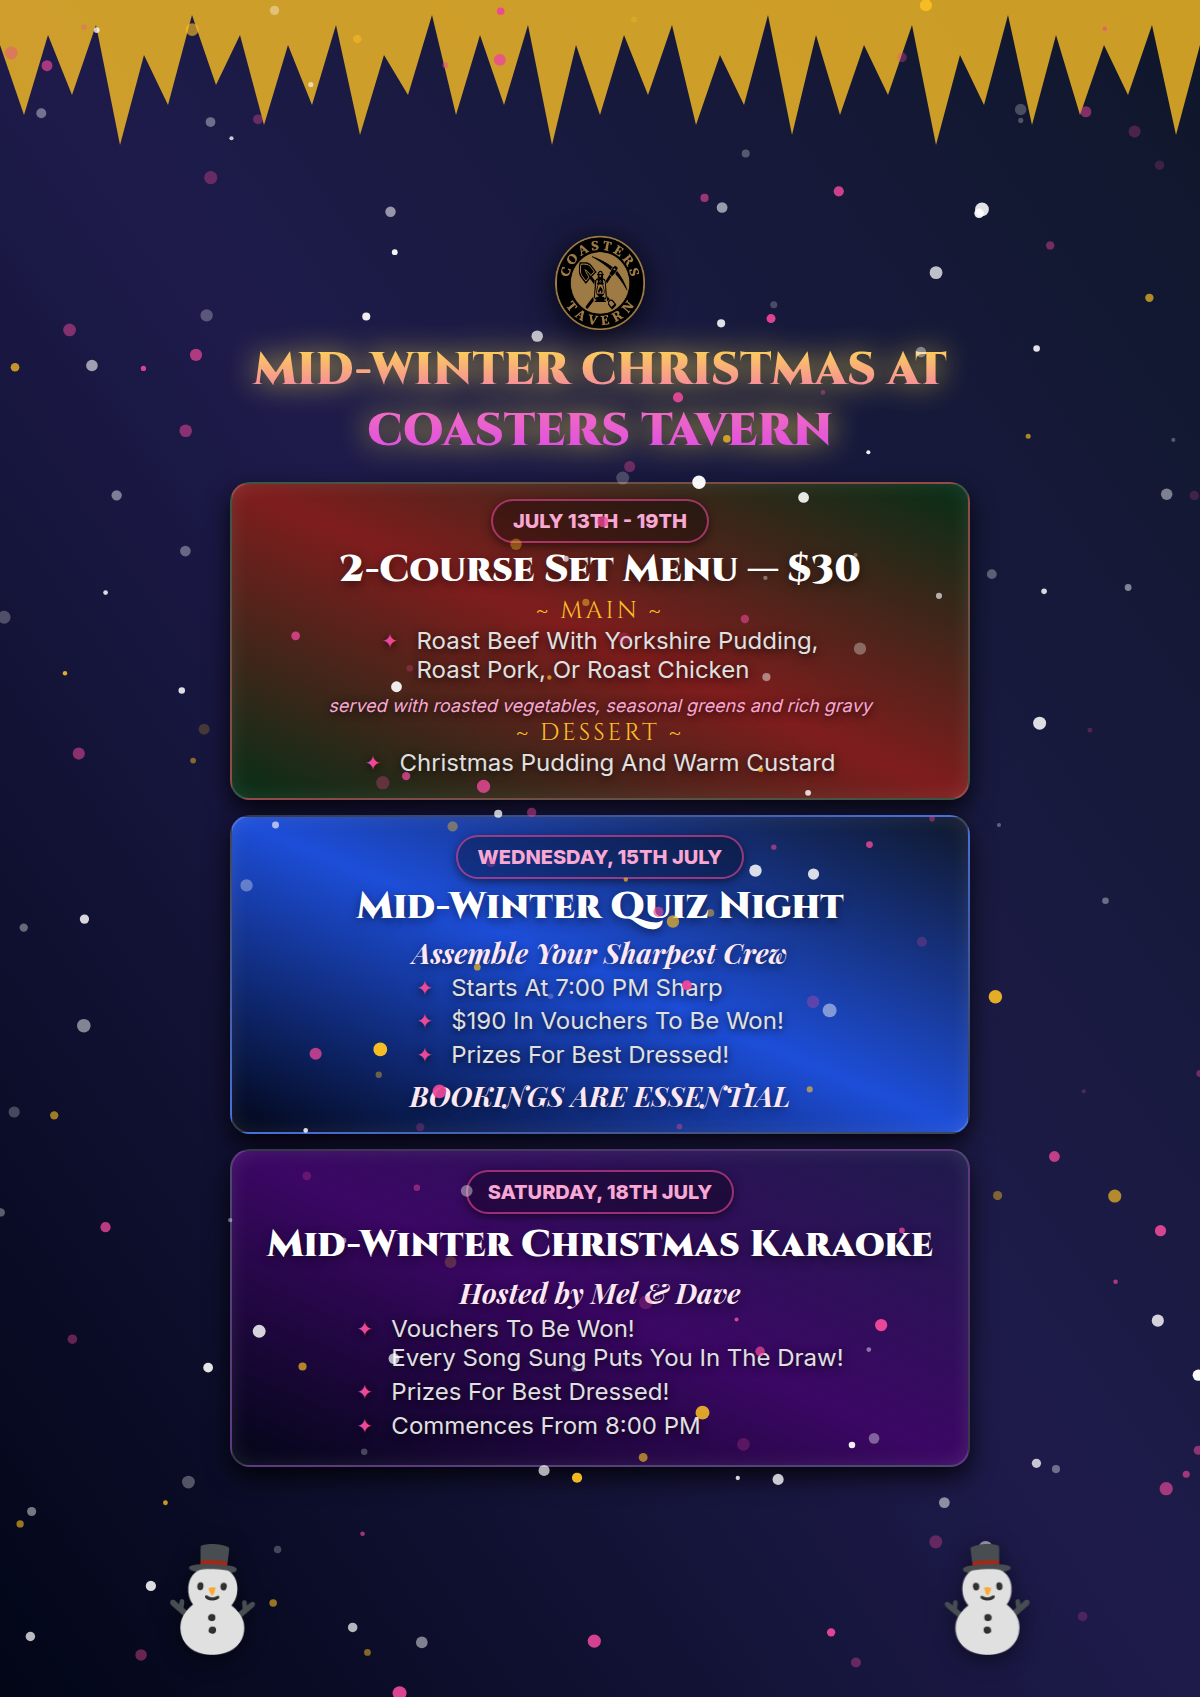
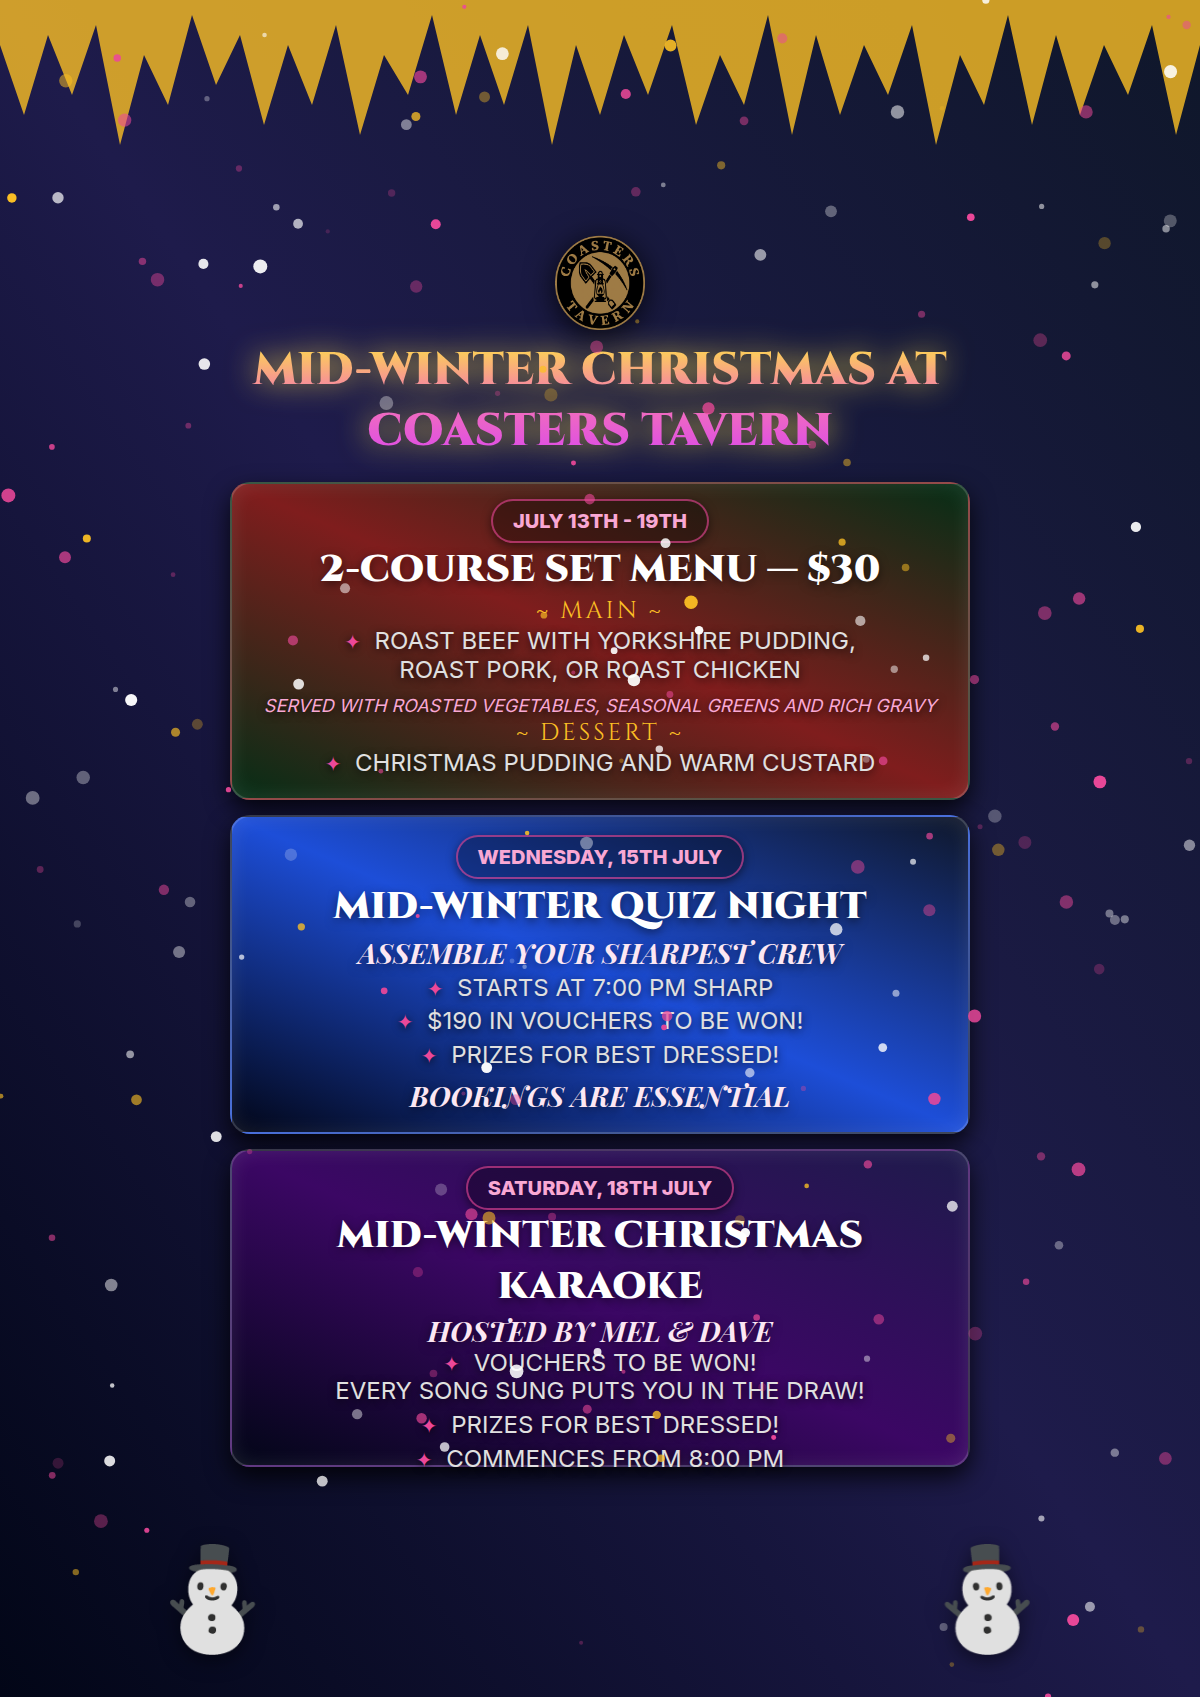
Center align menu text and uppercase all text

diff --git a/poster_all.html b/poster_all.html
@@ -11,6 +11,7 @@
             background: linear-gradient(to top right, #020617, #1e1b4b, #0f172a);
             color: white; font-family: 'Inter', sans-serif;
             overflow: hidden; position: relative;
+            text-transform: uppercase;
         }
         .poster-content {
             position: absolute; top: 0; left: 0; right: 0; bottom: 0;
@@ -54,9 +55,9 @@
         h2 { font-family: 'Playfair Display', serif; font-size: 28px; font-style: italic; color: #fce7f3; margin: 0; text-shadow: 0 3px 10px rgba(0,0,0,0.5); }
         .course-title { font-family: 'Cinzel', serif; font-size: 24px; color: #fbbf24; margin: 0; letter-spacing: 3px; }
         .date-badge { display: inline-block; background: rgba(0, 0, 0, 0.3); border: 2px solid rgba(236, 72, 153, 0.6); padding: 8px 20px; font-size: 20px; color: #f9a8d4; border-radius: 50px; margin: 0; box-shadow: 0 3px 10px rgba(0,0,0,0.5); font-weight: 900; }
-        ul { list-style: none; padding: 0; margin: 0 auto; display: inline-block; text-align: left; max-width: 95%; }
-        li { font-size: 24px; margin-bottom: 5px; color: #e0e0e0; text-transform: capitalize; text-shadow: 0 2px 8px rgba(0,0,0,0.8); position: relative; padding-left: 35px; line-height: 1.2;}
-        li::before { content: '✦'; color: #ec4899; position: absolute; left: 0; font-size: 20px; top: 2px; }
+        ul { list-style: none; padding: 0; margin: 0; text-align: center; width: 100%; }
+        li { font-size: 24px; margin-bottom: 5px; color: #e0e0e0; text-shadow: 0 2px 8px rgba(0,0,0,0.8); line-height: 1.2;}
+        li::before { content: '✦ '; color: #ec4899; font-size: 20px; margin-right: 8px; }
         .small-text { font-size: 18px; font-style: italic; color: #f9a8d4; margin-top: 5px; text-shadow: 0 2px 8px rgba(0,0,0,0.8); text-align: center; }
     </style>
 </head>

diff --git a/poster_menu.html b/poster_menu.html
@@ -11,6 +11,7 @@
             background: linear-gradient(to top right, #052e16, #7f1d1d, #052e16);
             color: white; font-family: 'Inter', sans-serif;
             overflow: hidden; position: relative;
+            text-transform: uppercase;
         }
         .poster-content {
             position: absolute; top: 0; left: 0; right: 0; bottom: 0;
@@ -48,9 +49,9 @@
         h2 { font-family: 'Playfair Display', serif; font-size: 38px; font-style: italic; color: #fce7f3; margin: 0; }
         .course-title { font-family: 'Cinzel', serif; font-size: 32px; color: #fbbf24; margin: 0; letter-spacing: 4px; }
         .date-badge { display: inline-block; background: rgba(217, 70, 239, 0.2); border: 2px solid rgba(236, 72, 153, 0.4); padding: 10px 25px; font-size: 24px; color: #f9a8d4; border-radius: 50px; margin: 0; font-weight: 900;}
-        ul { list-style: none; padding: 0; margin: 0 auto; display: inline-block; text-align: left; max-width: 95%; }
-        li { font-size: 32px; margin-bottom: 10px; color: #e0e0e0; text-transform: capitalize; position: relative; padding-left: 55px; line-height: 1.3;}
-        li::before { content: '✦'; color: #ec4899; position: absolute; left: 0; font-size: 28px; top: 2px; }
+        ul { list-style: none; padding: 0; margin: 0; text-align: center; width: 100%; }
+        li { font-size: 32px; margin-bottom: 10px; color: #e0e0e0; line-height: 1.3;}
+        li::before { content: '✦ '; color: #ec4899; font-size: 28px; margin-right: 10px; }
         .small-text { font-size: 24px; font-style: italic; color: #f9a8d4; margin-top: 5px; text-align: center; }
     </style>
 </head>
